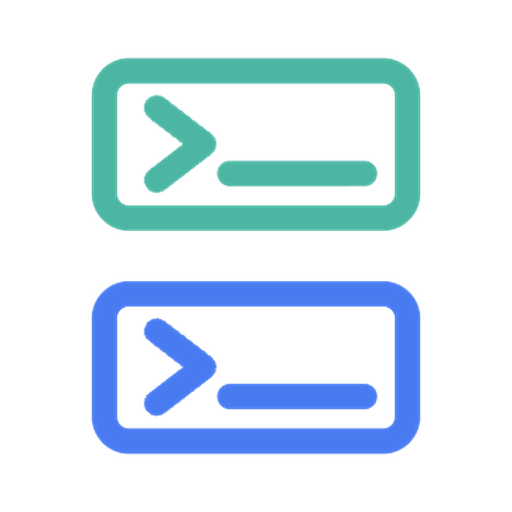
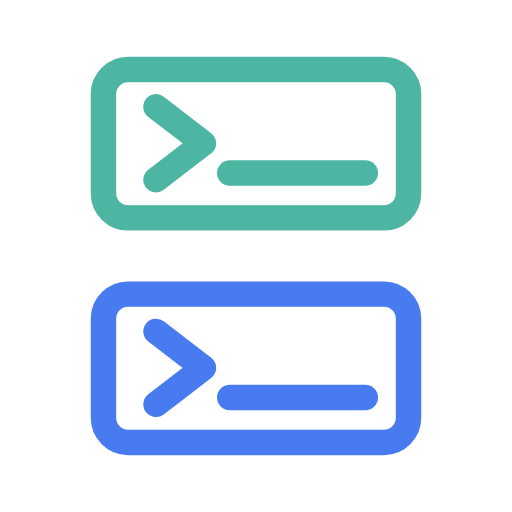
fix(assets): 使用矢量源生成头像图

diff --git a/docs/design-docs/extension-icon-candidates.md b/docs/design-docs/extension-icon-candidates.md
@@ -54,7 +54,7 @@ updated_at: 2026-05-12
 
 - 保留上下两个终端面板的结构，作为主 icon 的最终语义。
 - `images/icon.png` 由该 SVG 渲染生成，作为 `package.json` 的正式打包资产。
-- `images/avatar.png` 以 `images/icon.png` 为来源缩放到 `512x512` 透明画布内，确保主 icon 主体在圆形头像裁切区域内完整显示。
+- `images/avatar.png` 由 `images/dev-session-canvas-icon.svg` 矢量源直接渲染到 `512x512` 透明画布内，确保主 icon 主体在圆形头像裁切区域内完整显示，同时避免从 `images/icon.png` 二次放大造成锯齿。
 
 ### 5.2 Activity Bar Icon
 
@@ -100,7 +100,7 @@ updated_at: 2026-05-12
 
 ## 6. 风险与取舍
 
-- 主 icon 的最终 PNG 依赖渲染链生成；如果后续 SVG 继续微调，应重新导出 `images/icon.png`，并同步重新生成 `images/avatar.png`。
+- 主 icon 的最终 PNG 依赖渲染链生成；如果后续 SVG 继续微调，应重新导出 `images/icon.png`，并从 SVG 矢量源同步重新生成 `images/avatar.png`。
 - notifier companion 的最终 PNG 同样依赖渲染链；如果后续调整 `extensions/vscode/dev-session-canvas-notifier/images/icon.svg`，应同步重新导出 `extensions/vscode/dev-session-canvas-notifier/images/icon.png`。
 - 当前已经完成文件级同步与渲染验证，但还没有补充 Marketplace 或 VS Code 实景截图类人工校验。
 - badge 约定依赖手写 SVG mask；后续新增专属 icon 时应至少做 XML/路径存在检查，并在需要时补 VS Code 实景截图确认 24px 可读性。
